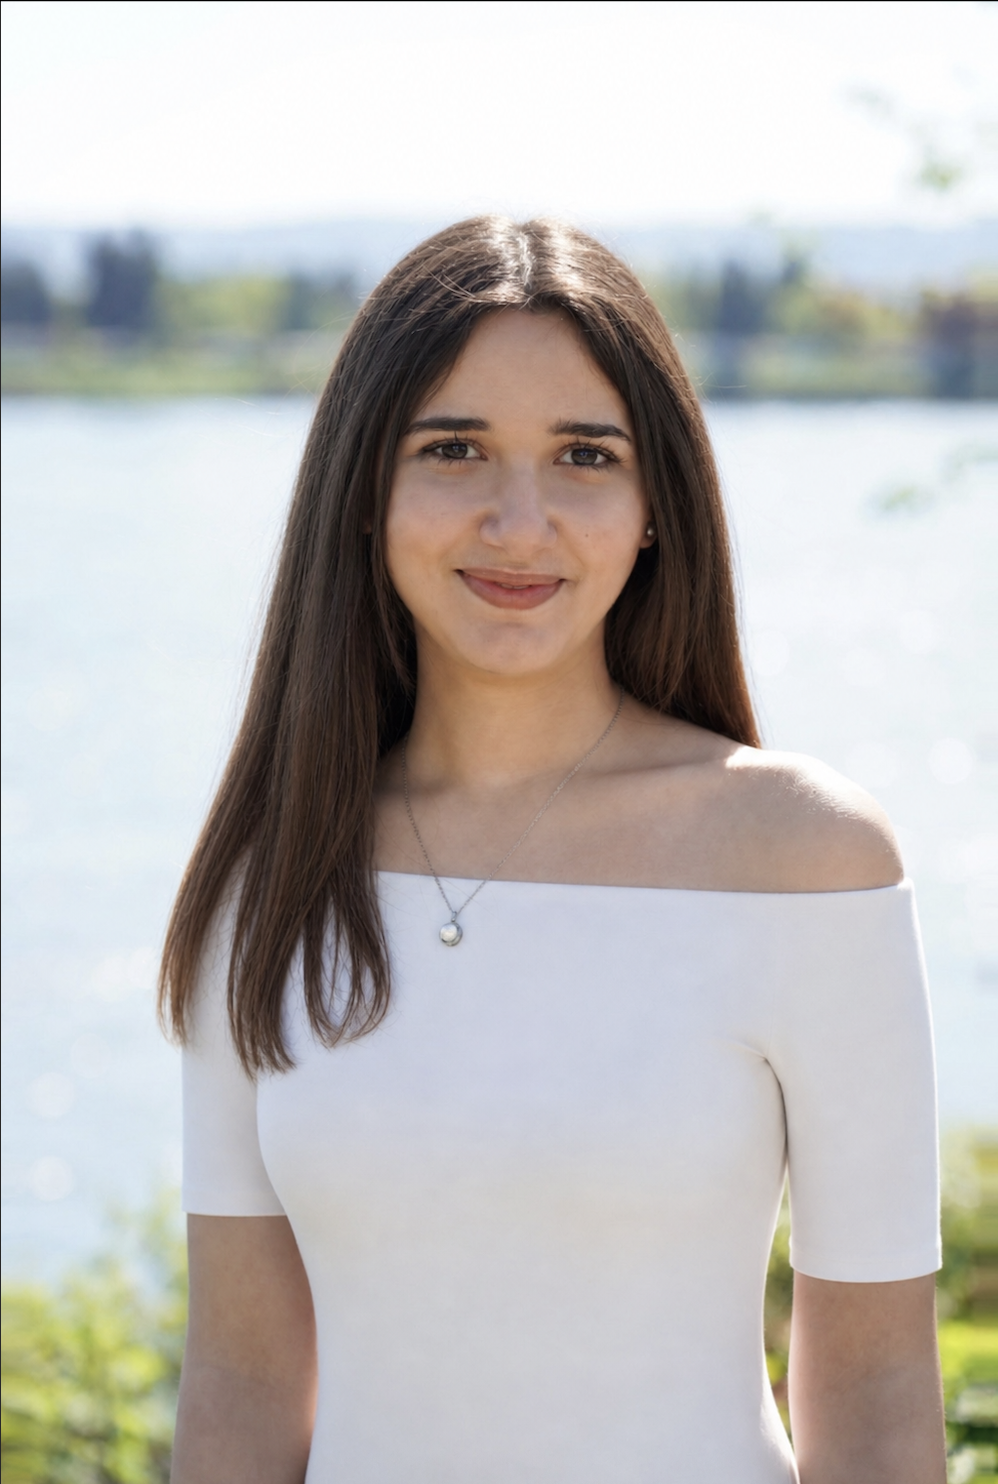
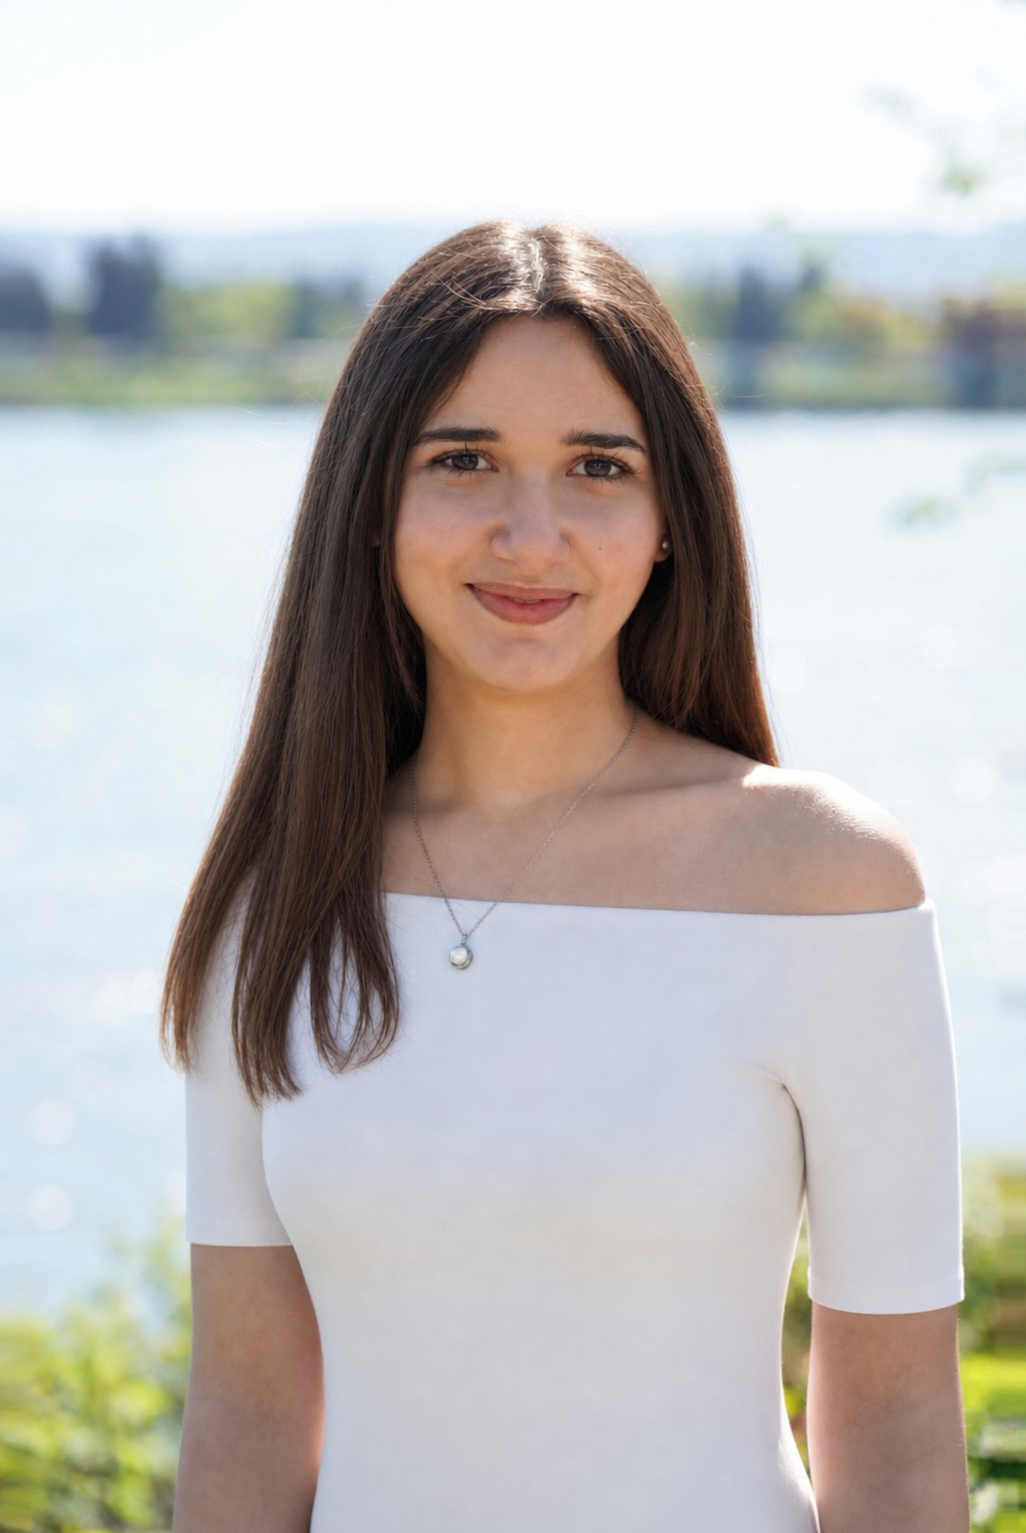
fixed photo borders

diff --git a/src/components/AboutMe.tsx b/src/components/AboutMe.tsx
@@ -1,4 +1,4 @@
-import { useEffect, useRef, useState } from "react";
+import { useEffect, useRef } from "react";
 import zhang from "@/assets/zhang.png";
 import hweij from "@/assets/hweij.png";
 
@@ -17,13 +17,18 @@ const consultants: Consultant[] = [
     image: zhang,
     bio: "Sophie is an incoming Northwestern student who began high school without a clear academic direction, limited involvement, and little initial focus on her studies. Starting near the bottom of several classes, she gradually rebuilt her trajectory by independently seeking guidance from teachers, mentors, alumni, and professionals, and applying that insight to her own development. Over time, she clarified her interest in healthcare, connected it to meaningful leadership and internship opportunities, and learned how to strategically present her experiences. Having taken a non-linear path herself, she now helps students approach the college admissions process with greater clarity, structure, and confidence.",
     achievements: [
-      "UW — Honors College, Near Full Ride",
-      "Georgia Tech — $10K Annual Scholarship",
-      "USC — $20K Annual Scholarship",
-      "Northwestern RD Admit",
-      "UCLA",
-      "UMass Amherst — $18K Annual Scholarship",
+      "UW — Honors College, Full Ride",
+      "Georgia Tech — $40K Scholarship",
+      "USC — $80K Scholarship",
+      "UCLA OOS",
+      "Northeastern — $92K Scholarship",
       "Purdue — Honors College + $10K Annual Scholarship",
+      "UCSB Research Mentorship Program — 2.5% Acceptance Rate",
+      "ASTACAP Violin Level 10",
+      "BMES Presenter",
+      "US Army Outstanding Accomplishment",
+      "Presidential Volunteer Service Gold Award",
+      "1570 SAT",
     ],
   },
   {
@@ -40,6 +45,8 @@ const consultants: Consultant[] = [
       "NCWIT Aspirations in Computing National Honorable Mention",
       "Regeneron Biomedical Science Award $400",
       "Cited Researcher by University Hospital Zurich",
+      "Nonprofit Cofounder",
+      "IEEE Research Publication",
     ],
   },
 ];
@@ -54,8 +61,7 @@ function Ticker({ items }: { items: string[] }) {
     if (!el) return;
 
     const step = () => {
-      posRef.current -= 0.4;
-      // reset when we've scrolled one full copy
+      posRef.current -= 0.8;
       const half = el.scrollWidth / 2;
       if (Math.abs(posRef.current) >= half) {
         posRef.current = 0;
@@ -68,16 +74,12 @@ function Ticker({ items }: { items: string[] }) {
     return () => cancelAnimationFrame(rafRef.current);
   }, []);
 
-  // render 2 copies flat so scrollWidth/2 = one copy
   const all = [...items, ...items];
 
   return (
     <div className="overflow-hidden w-full relative">
-      {/* fade left */}
       <div className="absolute inset-y-0 left-0 w-10 bg-gradient-to-r from-gray-100 to-transparent z-10 pointer-events-none" />
-      {/* fade right */}
       <div className="absolute inset-y-0 right-0 w-10 bg-gradient-to-l from-gray-100 to-transparent z-10 pointer-events-none" />
-
       <div ref={ref} className="flex w-max py-1">
         {all.map((item, i) => (
           <span
@@ -93,26 +95,20 @@ function Ticker({ items }: { items: string[] }) {
   );
 }
 
-function ConsultantRow({ consultant, reverse, imgPosition = "object-top" }: { consultant: Consultant; reverse?: boolean; imgPosition?: string }) {
-  const ref = useRef<HTMLDivElement>(null);
-  const [visible, setVisible] = useState(false);
-
-  useEffect(() => {
-    const obs = new IntersectionObserver(
-      ([e]) => { if (e.isIntersecting) setVisible(true); },
-      { threshold: 0.1 }
-    );
-    if (ref.current) obs.observe(ref.current);
-    return () => obs.disconnect();
-  }, []);
-
+function ConsultantRow({
+  consultant,
+  reverse,
+  imgPosition = "object-top",
+}: {
+  consultant: Consultant;
+  reverse?: boolean;
+  imgPosition?: string;
+}) {
   return (
     <div
-      ref={ref}
-      className={`flex flex-col md:flex-row gap-10 items-start transition-all duration-700 ease-out
-        ${visible ? "opacity-100 translate-y-0" : "opacity-0 translate-y-6"}
-        ${reverse ? "md:flex-row-reverse" : ""}
-      `}
+      className={`flex flex-col md:flex-row gap-10 items-start ${
+        reverse ? "md:flex-row-reverse" : ""
+      }`}
     >
       {/* Photo */}
       <div className="flex-shrink-0">
@@ -128,13 +124,14 @@ function ConsultantRow({ consultant, reverse, imgPosition = "object-top" }: { co
       {/* Text + ticker */}
       <div className="flex-1 flex flex-col gap-4 pt-1 min-w-0">
         <div>
-          <h3 className="text-2xl font-semibold text-gray-900 mb-1">{consultant.name}</h3>
+          <h3 className="text-2xl font-semibold text-gray-900 mb-1">
+            {consultant.name}
+          </h3>
         </div>
         <p className="text-base leading-relaxed text-gray-700">
           {consultant.bio}
         </p>
 
-        {/* divider */}
         <div className="flex items-center gap-3 mt-1">
           <div className="h-px flex-1 bg-gray-200" />
           <span className="text-xs uppercase tracking-widest text-gray-400 font-medium">
@@ -143,7 +140,6 @@ function ConsultantRow({ consultant, reverse, imgPosition = "object-top" }: { co
           <div className="h-px flex-1 bg-gray-200" />
         </div>
 
-        {/* ticker — constrained to text column */}
         <div className="w-full overflow-hidden">
           <Ticker items={consultant.achievements} />
         </div>
@@ -155,8 +151,6 @@ function ConsultantRow({ consultant, reverse, imgPosition = "object-top" }: { co
 const AboutMe = () => (
   <section className="bg-gray-100 py-20">
     <div className="container mx-auto max-w-6xl px-4">
-
-      {/* heading */}
       <div className="mb-16">
         <p className="text-sm uppercase tracking-widest mb-3 text-gray-400 font-medium">
           Trustworthy, personalized guidance
@@ -166,13 +160,16 @@ const AboutMe = () => (
         </h2>
       </div>
 
-      {/* rows */}
       <div className="flex flex-col gap-12">
         {consultants.map((c, i) => (
-          <ConsultantRow key={c.name} consultant={c} reverse={false} imgPosition={i === 0 ? "object-[center_20%]" : "object-top"} />
+          <ConsultantRow
+            key={c.name}
+            consultant={c}
+            reverse={false}
+            imgPosition={i === 0 ? "object-[center_20%]" : "object-top"}
+          />
         ))}
       </div>
-
     </div>
   </section>
 );
